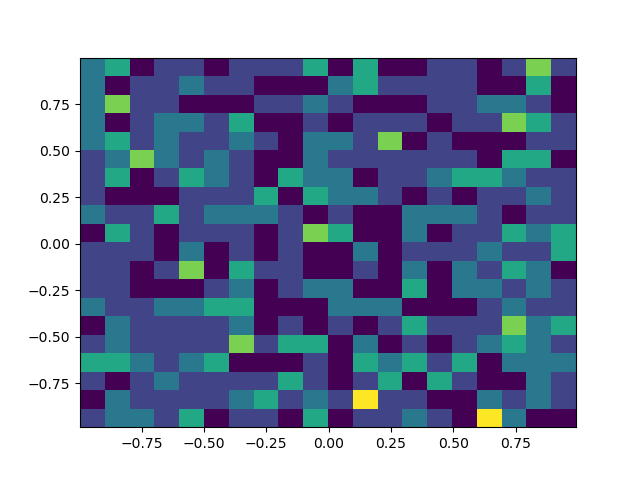
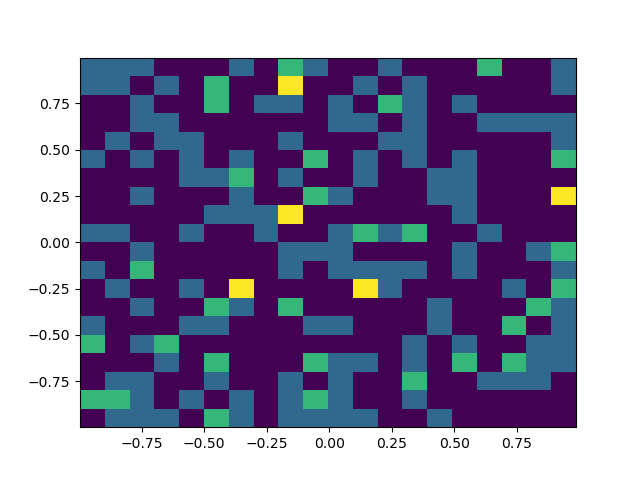
generic commit

diff --git a/scripts/fit_kernel.py b/scripts/fit_kernel.py
@@ -61,8 +61,8 @@ def train_kernel_transport(kernel_model, n_iters = 500):
         if not i % kernel_model.params['print_freq']:
             print(f'At step {i}: fit_loss = {round(float(loss_dict["fit"]),2)}, reg_loss = {round(float(loss_dict["reg"]),2)}')
             Loss_dict = update_list_dict(Loss_dict, loss_dict)
-        if not i % 5:
-            sample_hmap(kernel_model.Z.detach(),'../data/Y_tilde_hmap.png', d = 1)
+        if not i % 10:
+            sample_hmap(kernel_model.Z.detach().cpu().numpy(),'../data/Y_tilde_hmap.png', d = 2)
 
     return kernel_model, Loss_dict
 
@@ -92,8 +92,8 @@ def sample_hmap(sample, save_loc, bins = 20, d = 2):
 
 
 def run():
-    X = sample_uniform(N = 1000, d = 2)
-    Y = sample_normal(N = 1000, d = 2)
+    X = sample_uniform(N = 500, d = 2)
+    Y = sample_normal(N = 500, d = 2)
 
 
     sample_hmap(X, '../data/X_hmap.png', d = 2)
@@ -110,7 +110,7 @@ def run():
 
     X_tilde = sample_uniform(50000, d = 2)
     Y_tilde = kernel_model.map_z(X_tilde).detach().cpu().numpy()
-    sample_hmap(Y_tilde, '../data/Y_tilde_hmap_2.png', d = 1, bins = 30)
+    sample_hmap(Y_tilde.T, '../data/Y_tilde_hmap_2.png', d = 2, bins = 30)
 
 
 
